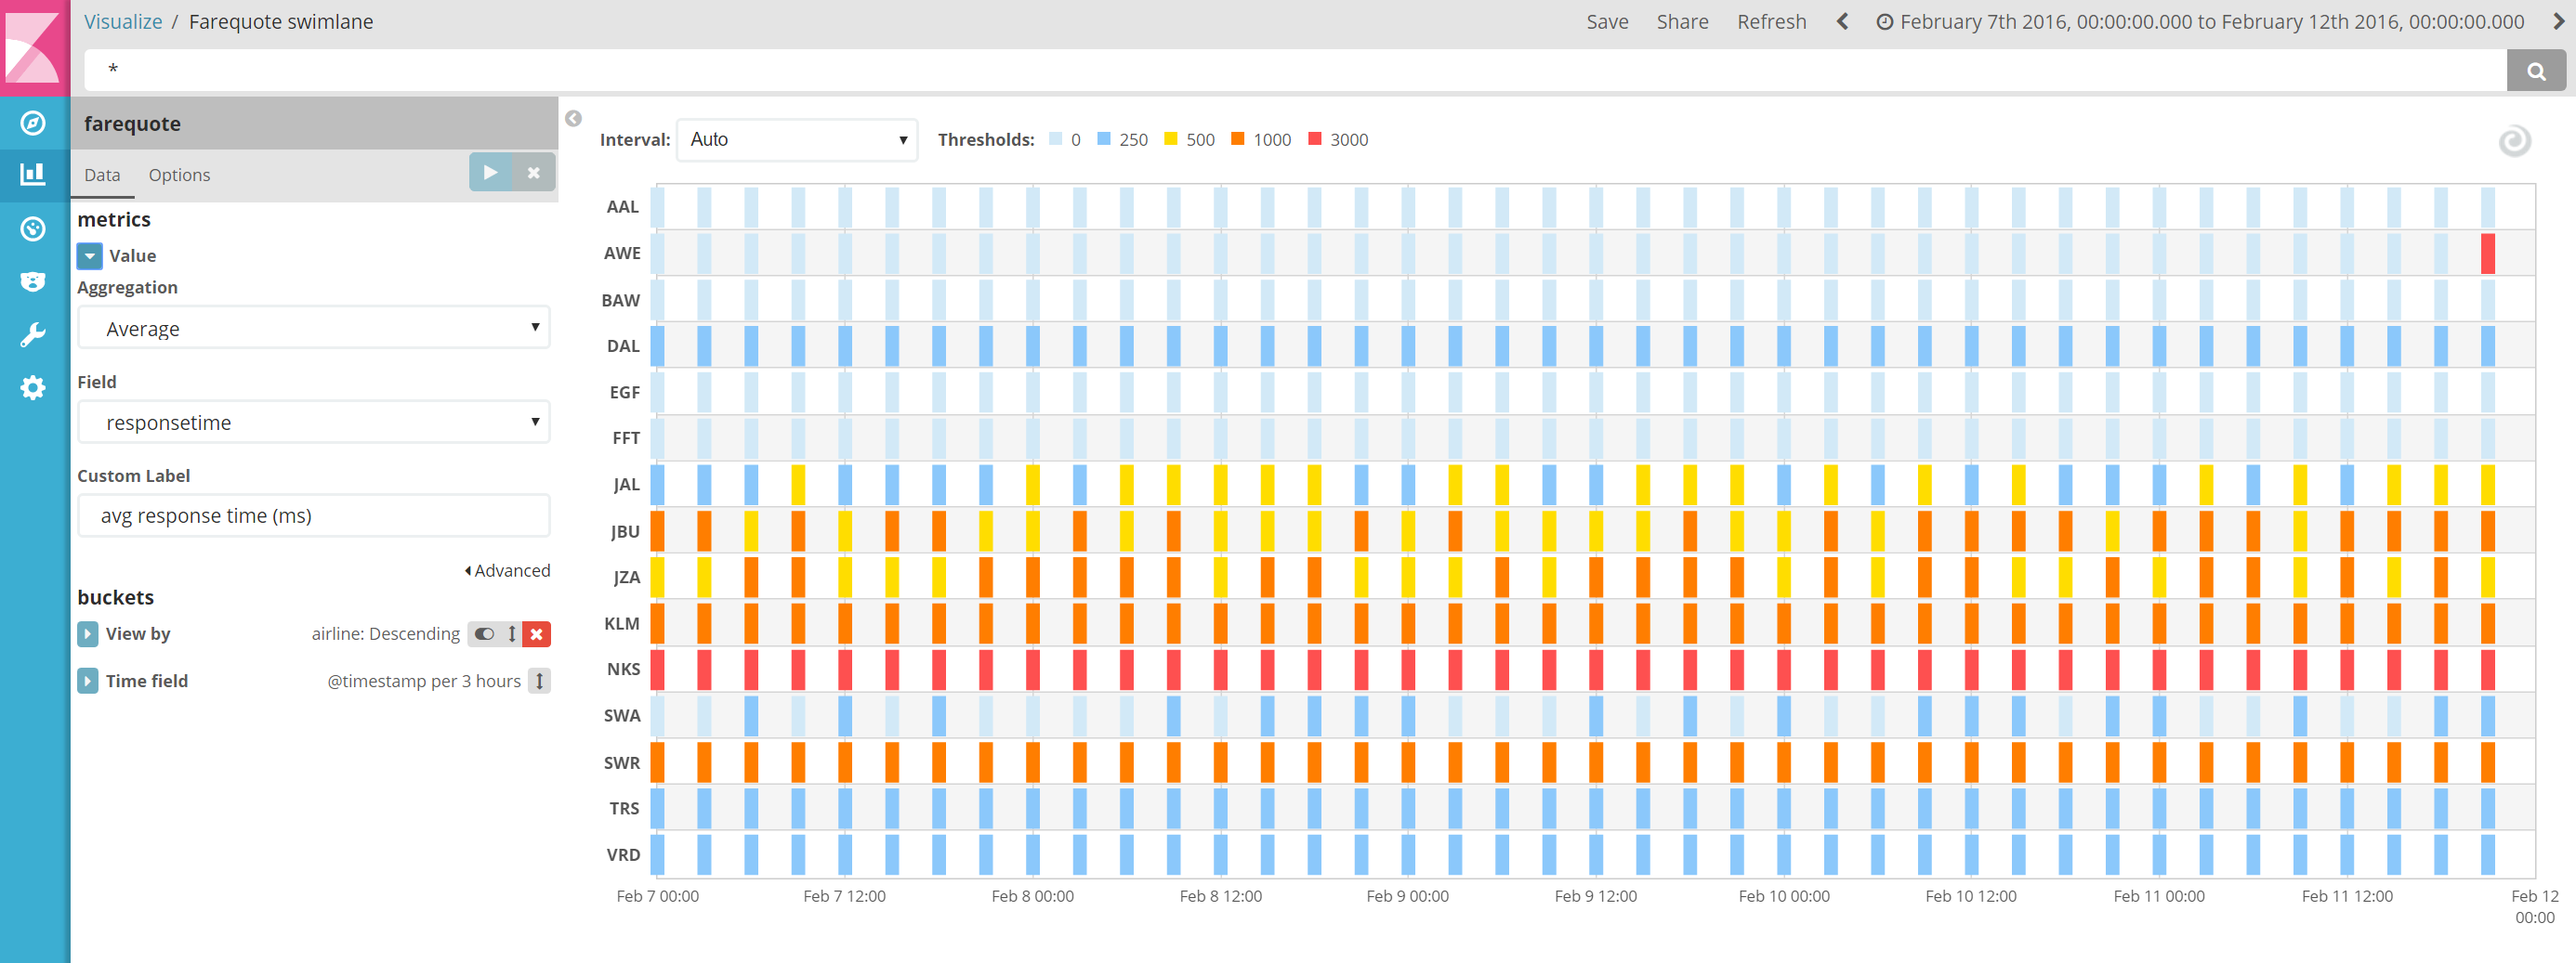
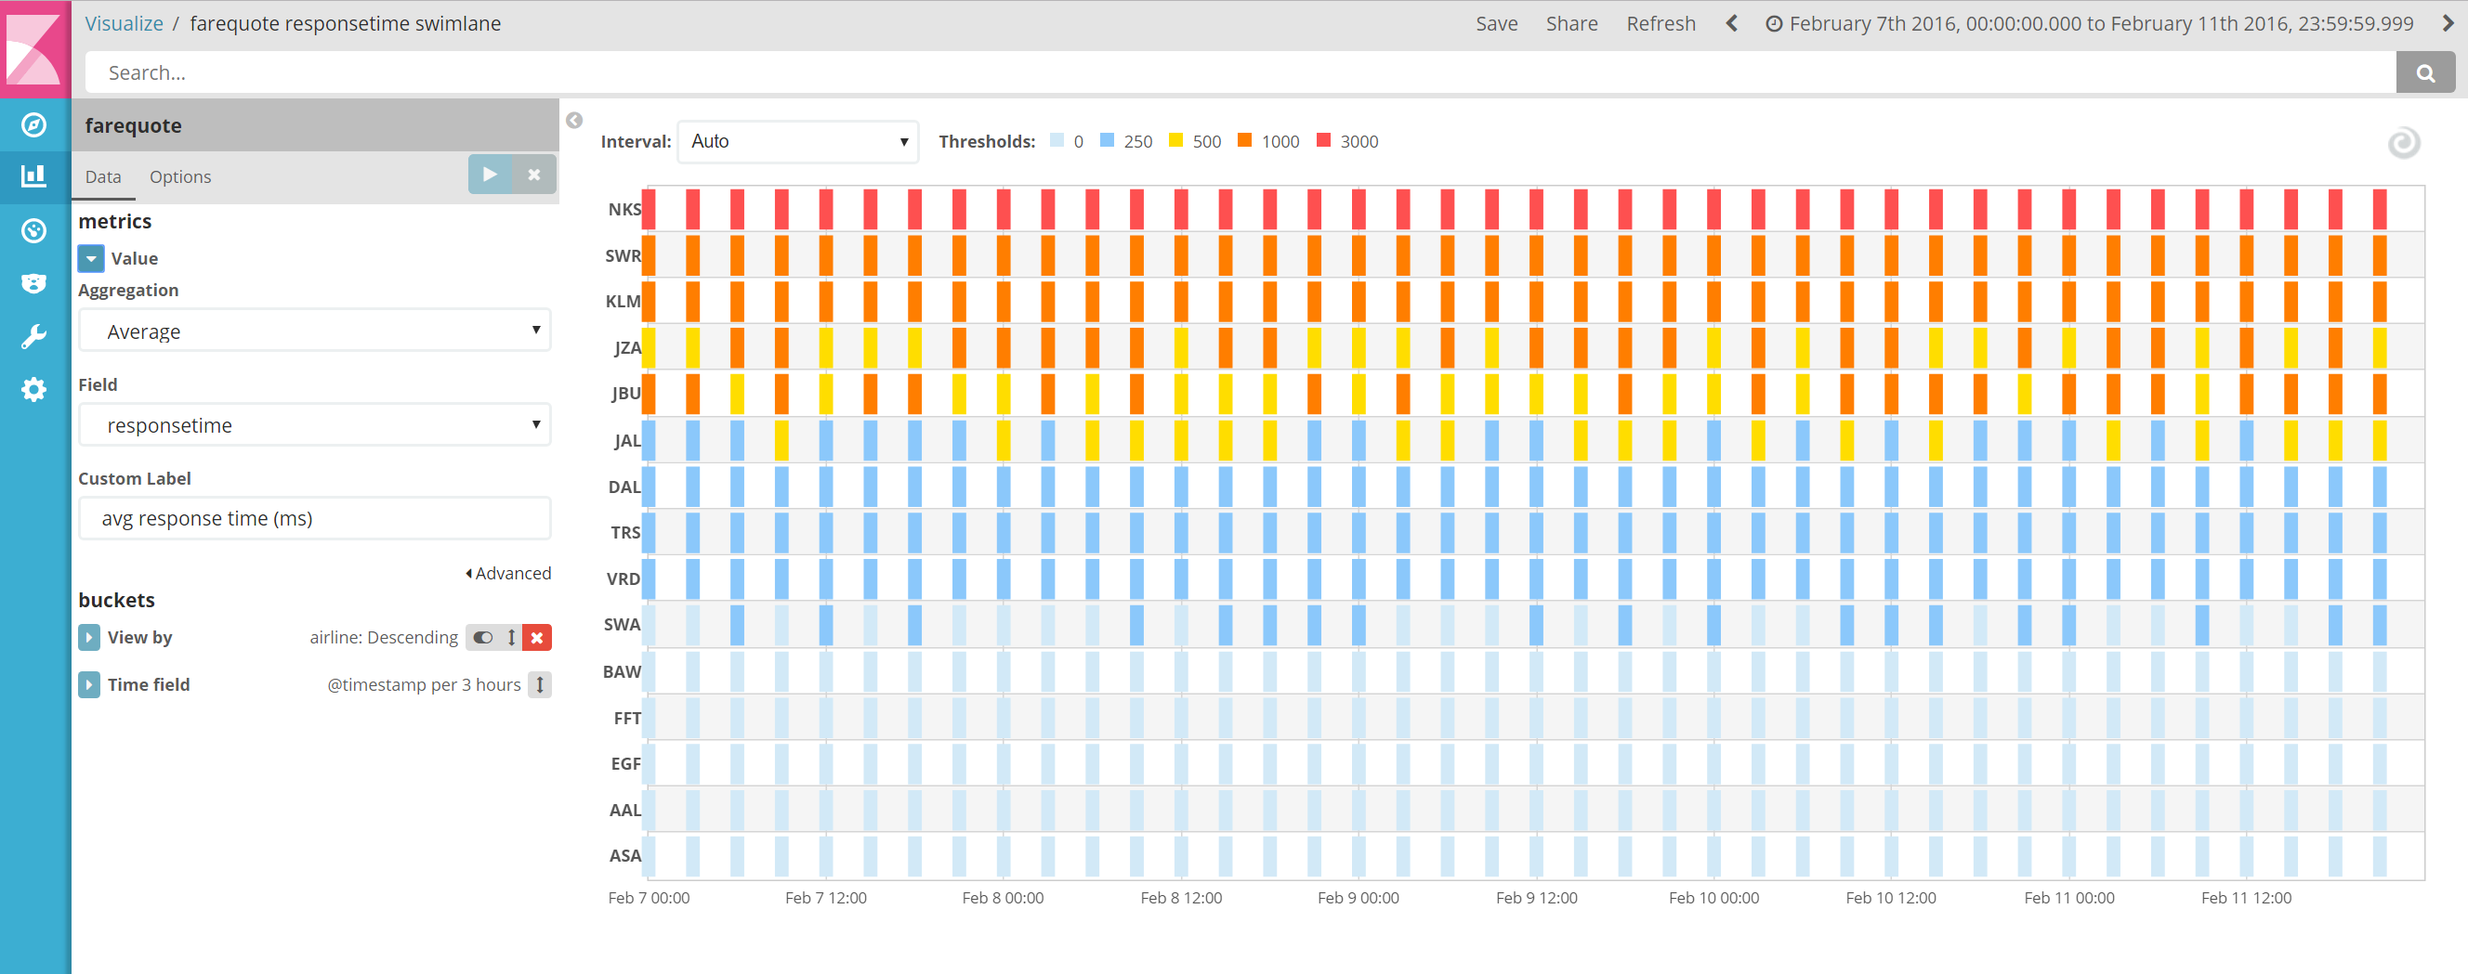
Display lanes in order returned by view by bucket aggregation
Additional option allows secondary alphabetical lane sort.
Addresses #4.

diff --git a/public/prelert_swimlane_vis_params.html b/public/prelert_swimlane_vis_params.html
@@ -8,7 +8,7 @@
       ng-model="vis.params.lowThreshold" ng-model-options="{ updateOn: 'blur' }"
       less-than="{{vis.params.warningThreshold}}"
       ng-required="true">
-    <kbn-info info="Defines lower threshold for values between {{vis.params.lowThreshold}} and {{vis.params.warningThreshold}}"></kbn-info>  
+    <kbn-info info="Defines lower threshold for values between {{vis.params.lowThreshold}} and {{vis.params.warningThreshold}}"></kbn-info>
     <input colorpicker ng-model="vis.params.lowThresholdColor" type="text" class="form-control color-picker-field">
     <kbn-info info="Define color for band in hexadecimal format. Click field for colorpicker."></kbn-info>
   </div>
@@ -77,4 +77,16 @@
     <input type="checkbox" name="showLegendControl" ng-model="vis.params.showLegend">
     Show threshold legend
   </label>
+</div>
+
+<div class="form-group">
+  <h4>Sort lanes</h4>
+  <label>Order lanes alphabetically
+    <kbn-info info="Optionally displays the lanes in alphabetical order following the ordering configured for the view by aggregation"></kbn-info>
+  </label>
+  <select name="order" ng-model="vis.params.alphabetSortLaneLabels" class="form-control">
+    <option value="off">No</option>
+    <option value="asc">Ascending</option>
+    <option value="desc">Descending</option>
+  </select>
 </div>

diff --git a/public/prelert_swimlane_vis_controller.js b/public/prelert_swimlane_vis_controller.js
@@ -288,9 +288,16 @@ module.controller('PrelertSwimlaneVisController', function ($scope, courier, $ti
         allSeries.push(series);
       });
 
-      // Sort the lane labels in reverse so that the order is a-z from the top.
-      chartData = sortChartDataByLaneLabel(chartData);
-      const laneIds = _.keys(chartData);
+
+      let laneIds = _.keys(chartData);
+      if (scope.vis.params.alphabetSortLaneLabels === 'asc' ||
+        scope.vis.params.alphabetSortLaneLabels === 'desc') {
+        chartData = sortChartDataByLaneLabel(chartData);
+        laneIds = _.keys(chartData);
+      } else {
+        // Reverse the order of the lane IDs as they are rendered bottom up.
+        laneIds = laneIds.reverse();
+      }
 
       let laneIndex = 0;
       _.each(chartData, function (bucketsForViewByValue, viewByValue) {
@@ -526,8 +533,10 @@ module.controller('PrelertSwimlaneVisController', function ($scope, courier, $ti
         return key;
       });
 
-      // Reverse so that the order is a-z from the top.
-      keys = keys.reverse();
+      if (scope.vis.params.alphabetSortLaneLabels === 'asc') {
+        // Reverse the keys as the lanes are rendered bottom up.
+        keys = keys.reverse();
+      }
 
       return _.zipObject(keys, _.map(keys, function (key) {
         return list[key];

diff --git a/public/prelert_swimlane_vis.js b/public/prelert_swimlane_vis.js
@@ -59,7 +59,8 @@ function PrelertSwimlaneVisProvider(Private) {
         majorThresholdColor: '#ff7e00',
         criticalThresholdColor: '#fe5050',
         tooltipNumberFormat: '0.0',
-        showLegend: true
+        showLegend: true,
+        alphabetSortLaneLabels: 'off'
       },
       intervalOptions: [{ display:'Auto', val:'auto' },
                         { display:'5 minutes', val:'custom', customInterval:'5m' },

diff --git a/README.md b/README.md
@@ -160,9 +160,9 @@ the visualization has been saved and added to a dashboard.
 ## Options
 
 The Options tab allows you to configure the color band thresholds, the format of the value shown in the tooltip
-when hovering over a band in the swimlane, and whether to display the legend showing the lower threshold values
-for each of the color bands. Alternative colors can be chosen here by using the provided colorpickers or by entering
-hexidecimal color values.
+when hovering over a band in the swimlane, whether to display the legend showing the lower threshold values
+for each of the color bands, and whether to sort the lanes alphabetically. Alternative colors for the swimlane
+cells can be chosen here by using the provided colorpickers or by entering hexidecimal color values.
 
 ![image](resources/options.png)
 
@@ -201,6 +201,12 @@ for the range of accepted formats, with that being the library used to format th
 The date and time shown in the tooltip is displayed in the format that Kibana uses for displaying pretty-formatted
 dates. This `dateFormat` option can be configured in the *Advanced Settings* page under the Kibana Management
 application.
+
+### Lane sorting
+
+By default the lanes will be displayed in the order returned by the configured *View by* bucket aggregation. To
+perform a secondary alphabetical sort to the lane order, select *Ascending* or *Descending* as desired from the
+*Order lanes alphabetically* dropdown control.
 
 
 ## Issues
